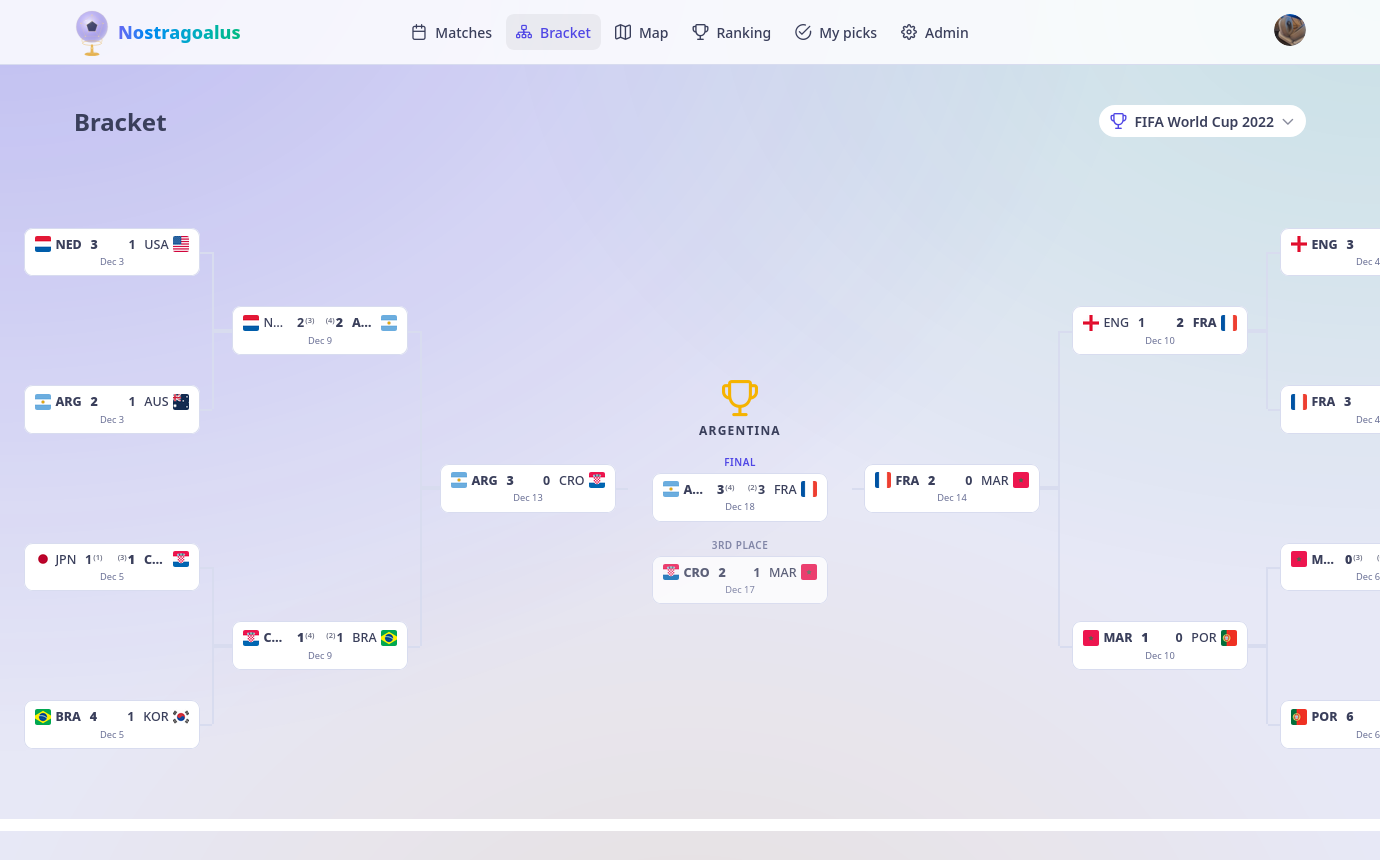
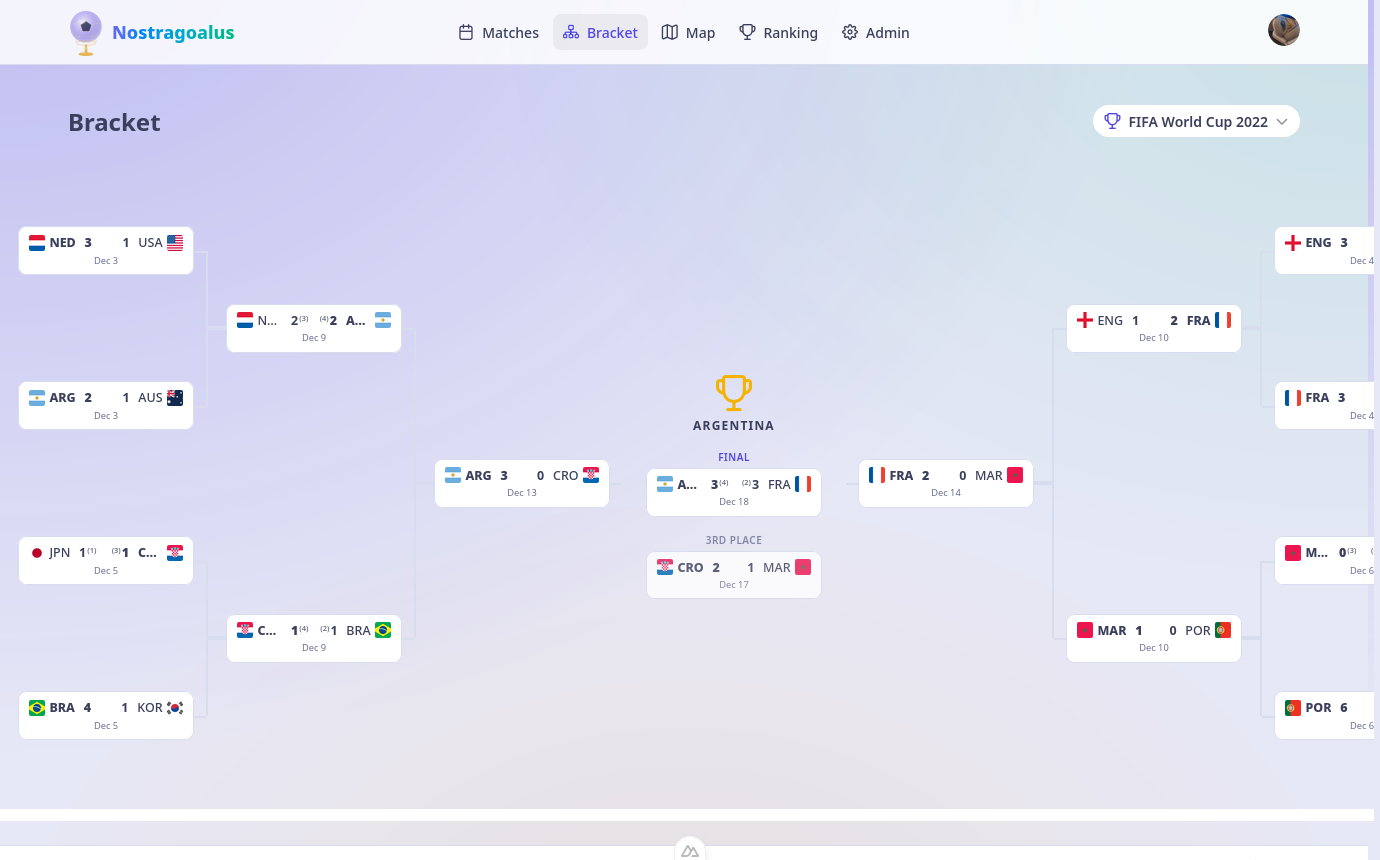
docs(landing): refresh showcase screenshots, add consensus-bot shot
Regenerate the six showcase screenshots against the current UI (they predated
the live badge, best-scorer flags, etc.) and add a consensus-bot shot to the
carousel. The /leagues page is deliberately not captured - it would expose live
join codes of real leagues.

diff --git a/app/pages/index.vue b/app/pages/index.vue
@@ -257,7 +257,7 @@ onBeforeUnmount(() => window.removeEventListener('resize', layoutBanner))
       <h2 class="text-3xl font-extrabold text-center mb-2">{{ t('landing.showcaseTitle') }}</h2>
       <p class="text-center mb-8" style="color: var(--p-text-muted-color)">{{ t('landing.showcaseSub') }}</p>
       <Carousel
-        :value="['fixtures', 'match', 'ranking', 'bracket', 'map', 'team']"
+        :value="['fixtures', 'match', 'ranking', 'bot', 'bracket', 'map', 'team']"
         :num-visible="1"
         :num-scroll="1"
         circular

diff --git a/CHANGELOG.md b/CHANGELOG.md
@@ -5,6 +5,9 @@ The format follows [Keep a Changelog](https://keepachangelog.com/en/1.1.0/); ver
 
 ## [Unreleased]
 
+### Changed
+- Landing showcase screenshots refreshed to the current UI, and a consensus-bot screenshot added to the carousel.
+
 ## [1.0.0] - 2026-06-11
 
 ### Changed
